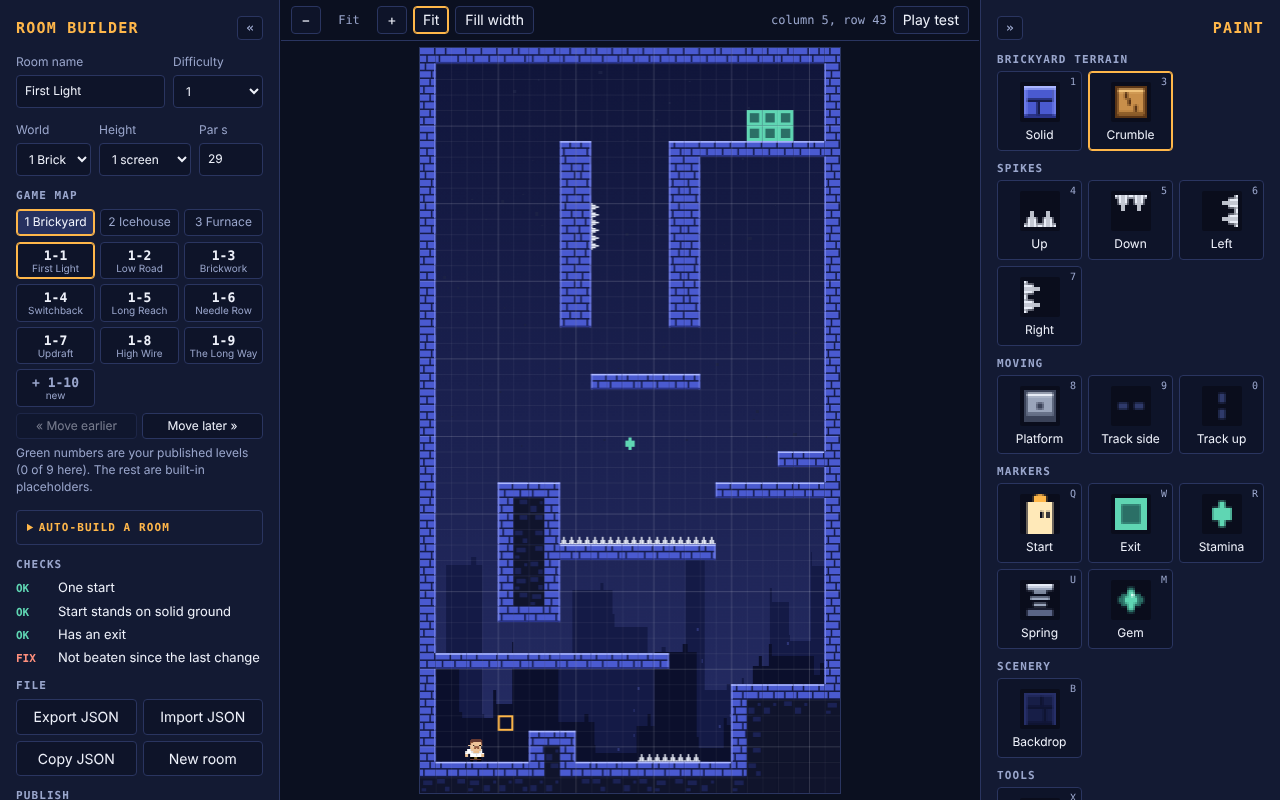
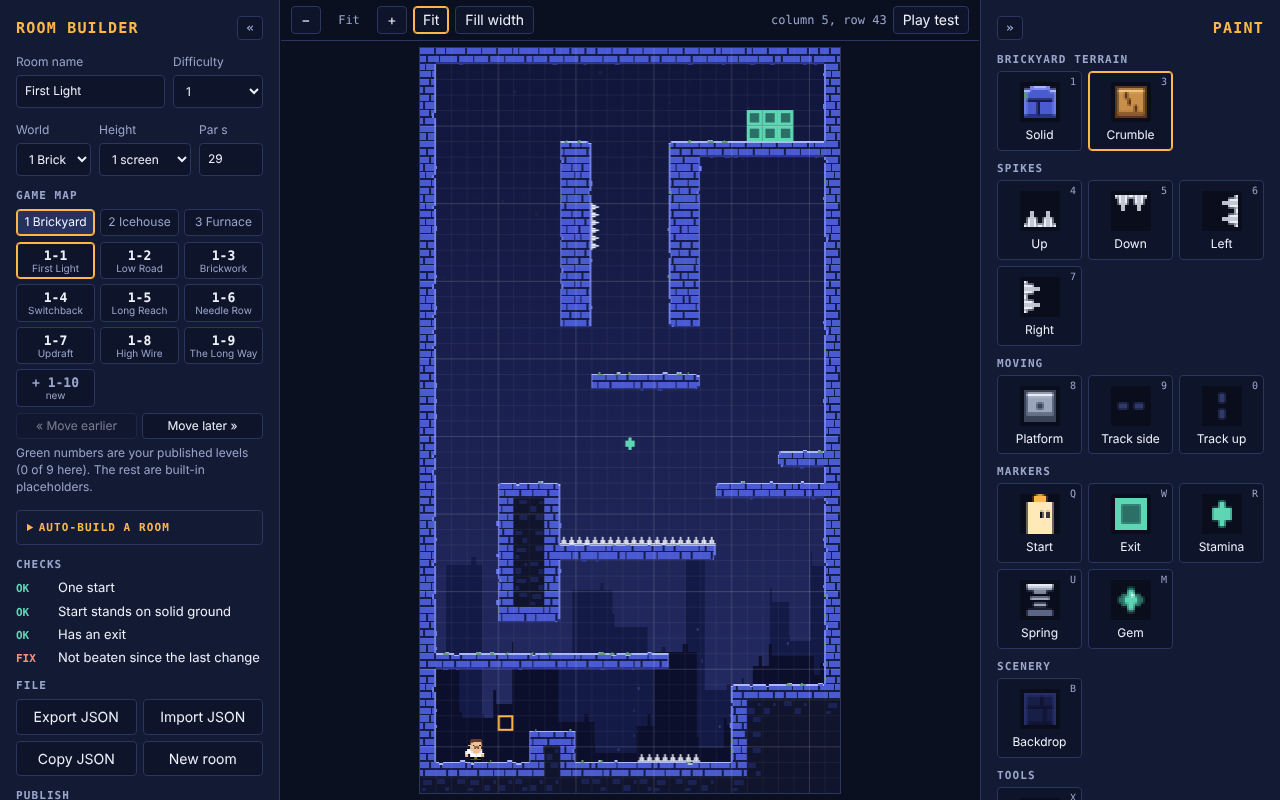
Rough terrain edges with per-world edge art
Step 2 of the aesthetic plan. Exposed wall corners get chipped, top runs
get dips and knobs, sides get nicks, all one or two pixels of art with no
change to collision. Each world adds its own trim: moss tufts in the
Brickyard, snow caps and icicles in the Icehouse, soot and glowing drips in
the Furnace. Walls now draw on a transparent layer over the sky so chips
show the sky through. Applies to every existing level, hand-made or built.

Claude-Session: https://claude.ai/code/session_01NZkKt2otoYDRNuWNpVBUzY

diff --git a/builder/index.html b/builder/index.html
@@ -246,9 +246,9 @@
   // so repeats do not show, and a ring of sparse "infill" detail just inside the edge. Each terrain type is its
   // own tileset with the same layout, so new looks can be swapped in without touching the rules.
   var TILESETS = {
-    brick: { face: '#4a5ad0', hi: '#aab6ff', side: '#6d7be6', lo: '#2a348c', line: '#161c4a', core: '#10142c', infill: '#1b2254' },
-    frost: { face: '#587a9e', hi: '#f4fcff', side: '#86a9c9', lo: '#2a4361', line: '#172a41', core: '#0b1826', infill: '#14283c' },
-    ember: { face: '#8c3b2c', hi: '#ffb48c', side: '#b9573e', lo: '#4c1c15', line: '#2b0f0c', core: '#180a09', infill: '#2c1311' },
+    brick: { face: '#4a5ad0', hi: '#aab6ff', side: '#6d7be6', lo: '#2a348c', line: '#161c4a', core: '#10142c', infill: '#1b2254', moss: '#5f9a74' },
+    frost: { face: '#587a9e', hi: '#f4fcff', side: '#86a9c9', lo: '#2a4361', line: '#172a41', core: '#0b1826', infill: '#14283c', snow: '#f4fcff', snowLo: '#b9d9ec', icicle: '#a8d6ee' },
+    ember: { face: '#8c3b2c', hi: '#ffb48c', side: '#b9573e', lo: '#4c1c15', line: '#2b0f0c', core: '#180a09', infill: '#2c1311', soot: '#2b0f0c', drip: '#d4531f', dripHi: '#ff9a3c' },
     ice:   { face: '#86cdee', hi: '#f2fdff', side: '#b9e8fa', lo: '#3f86bd', line: '#5eb0dd', core: '#102c44', infill: '#1b4866' }
   };
   var SOLID_KIND = { '#': 'brick', 'I': 'ice' };
@@ -297,6 +297,58 @@
     if (rt) { b.fillStyle = S.side; b.fillRect(x + 9, y, 1, 10); }
     if (dn) { b.fillStyle = S.lo; b.fillRect(x, y + 9, 10, 1); }
     if (up) { b.fillStyle = S.hi; b.fillRect(x, y, 10, 1); }
+    if (kind !== 'ice') roughen(b, x, y, S, up, dn, lf, rt, c, r);
+  }
+  // Roughen: the silhouette of a wall is never a straight line. Exposed corners get chipped, top edges get small
+  // dips and bumps, sides get a nick or a knob, and each world adds its own edge art: moss tufts on the Brickyard,
+  // snow caps and icicles in the Icehouse, soot and glowing drips in the Furnace. Chips are cleared to transparent,
+  // so walls must be drawn on their own transparent layer over the sky. None of this changes collision: the edge
+  // moves by one or two pixels of art, the same way Celeste's tiles do.
+  function roughen(b, x, y, S, up, dn, lf, rt, c, r) {
+    var a = tileHash(c * 7 + 3, r * 11 + 5), d = tileHash(c * 13 + 9, r * 3 + 1), e = tileHash(c + 101, r + 203);
+    function chip(cx, cy, w, h, dir) {                       // clear a corner, then relight the two new faces
+      b.clearRect(cx, cy, w, h);
+      if (dir === 'tl') { b.fillStyle = S.hi; b.fillRect(cx, cy + h, w, 1); b.fillStyle = S.side; b.fillRect(cx + w, cy, 1, h); }
+      if (dir === 'tr') { b.fillStyle = S.hi; b.fillRect(cx, cy + h, w, 1); b.fillStyle = S.side; b.fillRect(cx - 1, cy, 1, h); }
+      if (dir === 'bl') { b.fillStyle = S.lo; b.fillRect(cx, cy - 1, w, 1); b.fillStyle = S.side; b.fillRect(cx + w, cy, 1, h); }
+      if (dir === 'br') { b.fillStyle = S.lo; b.fillRect(cx, cy - 1, w, 1); b.fillStyle = S.side; b.fillRect(cx - 1, cy, 1, h); }
+    }
+    if (up && lf && a < 0.6) chip(x, y, a < 0.2 ? 2 : 1, a < 0.4 ? 1 : 2, 'tl');
+    if (up && rt && d < 0.6) chip(x + (d < 0.2 ? 8 : 9), y, d < 0.2 ? 2 : 1, d < 0.4 ? 1 : 2, 'tr');
+    if (dn && lf && e < 0.5) chip(x, y + (e < 0.25 ? 9 : 8), e < 0.25 ? 2 : 1, e < 0.25 ? 1 : 2, 'bl');
+    if (dn && rt && a > 0.5) chip(x + (a > 0.75 ? 8 : 9), y + (a > 0.75 ? 9 : 8), a > 0.75 ? 2 : 1, a > 0.75 ? 1 : 2, 'br');
+    if (up && !lf && !rt) {                                  // along a top run: a dip, or a knob standing one pixel proud
+      var dx = 2 + Math.floor(d * 5), dw = 2 + Math.floor(e * 2);
+      if (d < 0.22) { b.clearRect(x + dx, y, dw, 1); b.fillStyle = S.hi; b.fillRect(x + dx, y + 1, dw, 1); }
+      else if (d > 0.7) { b.fillStyle = S.hi; b.fillRect(x + dx, y - 1, dw, 1); b.fillStyle = S.face; b.fillRect(x + dx, y, dw, 1); }
+    }
+    if (dn && !lf && !rt && e > 0.72) { var bx = 2 + Math.floor(a * 5); b.fillStyle = S.lo; b.fillRect(x + bx, y + 10, 2 + Math.floor(d * 2), 1); }
+    if (lf && !up && !dn) {                                  // along a side: a nick in, or a knob out
+      var sy = 2 + Math.floor(a * 5), sh = 2 + Math.floor(d * 2);
+      if (a < 0.2) { b.clearRect(x, y + sy, 1, sh); b.fillStyle = S.side; b.fillRect(x + 1, y + sy, 1, sh); }
+      else if (a > 0.78) { b.fillStyle = S.side; b.fillRect(x - 1, y + sy, 1, sh); }
+    }
+    if (rt && !up && !dn) {
+      var ty = 2 + Math.floor(e * 5), th = 2 + Math.floor(a * 2);
+      if (e < 0.2) { b.clearRect(x + 9, y + ty, 1, th); b.fillStyle = S.side; b.fillRect(x + 8, y + ty, 1, th); }
+      else if (e > 0.78) { b.fillStyle = S.side; b.fillRect(x + 10, y + ty, 1, th); }
+    }
+    // world edge art
+    if (S.snow) {
+      if (up) {                                              // a snow cap: two pixels deep, mounded, with a little overhang
+        var sx = lf ? 1 : 0, sw = 10 - sx - (rt ? 1 : 0);
+        b.fillStyle = S.snow; b.fillRect(x + sx, y, sw, 2);
+        b.fillStyle = S.snowLo; b.fillRect(x + sx, y + 2, sw, 1);
+        if (e > 0.5) { b.fillStyle = S.snow; b.fillRect(x + 2 + Math.floor(a * 5), y - 1, 2 + Math.floor(d * 2), 1); }
+      }
+      if (dn && d > 0.55) { var ix = 1 + Math.floor(a * 8), ih = 2 + Math.floor(e * 3); b.fillStyle = S.icicle; b.fillRect(x + ix, y + 10, 1, ih); b.fillStyle = S.snow; b.fillRect(x + ix, y + 10, 1, 1); }
+    } else if (S.moss) {
+      if (up && a > 0.62) { var mx = 1 + Math.floor(d * 6); b.fillStyle = S.moss; b.fillRect(x + mx, y, 2 + Math.floor(e * 3), 1); b.fillRect(x + mx + 1, y - 1, 1, 1); }
+      if (lf && e > 0.8) { b.fillStyle = S.moss; b.fillRect(x, y + 2 + Math.floor(a * 6), 1, 2); }
+    } else if (S.soot) {
+      if (up && d > 0.5) { var ox = Math.floor(a * 7); b.fillStyle = S.soot; b.fillRect(x + ox, y, 2 + Math.floor(e * 3), 1); }
+      if (dn && a > 0.68) { var px = 1 + Math.floor(e * 8), ph = 2 + Math.floor(d * 3); b.fillStyle = S.drip; b.fillRect(x + px, y + 10, 1, ph); b.fillStyle = S.dripHi; b.fillRect(x + px, y + 10, 1, 1); }
+    }
   }
   // Crumbling block: every tile has its own outline and cracks so it reads as loose.
   function drawCrumble(b, x, y, c, r) {
@@ -823,9 +875,14 @@
     ctx.setTransform(k, 0, 0, k, 0, 0);
     ctx.imageSmoothingEnabled = false;
     ctx.drawImage(skyLayer(), 0, 0);
+    var wl = document.createElement('canvas'), wb;                       // walls on a transparent layer (roughen clears chips), same as the game
+    wl.width = COLS * T; wl.height = ROWS * T; wb = wl.getContext('2d');
+    for (r = 0; r < ROWS; r++) for (c = 0; c < COLS; c++) if (tiles[r][c] === 'b') drawTile(ctx, 'b', c * T, r * T, c, r, false);
+    for (r = 0; r < ROWS; r++) for (c = 0; c < COLS; c++) if (tiles[r][c] === '#' || tiles[r][c] === 'I') drawTile(wb, tiles[r][c], c * T, r * T, c, r, false);
+    ctx.drawImage(wl, 0, 0);
     for (r = 0; r < ROWS; r++) for (c = 0; c < COLS; c++) {
       var ch = tiles[r][c];
-      if (ch !== '.') drawTile(ctx, ch, c * T, r * T, c, r, false);
+      if (ch !== '.' && ch !== 'b' && ch !== '#' && ch !== 'I') drawTile(ctx, ch, c * T, r * T, c, r, false);
     }
     for (c = 1; c < COLS; c++) { ctx.fillStyle = c % 5 === 0 ? 'rgba(255,255,255,0.16)' : 'rgba(255,255,255,0.06)'; ctx.fillRect(c * T, 0, px, ROWS * T); }
     for (r = 1; r < ROWS; r++) { ctx.fillStyle = r % 5 === 0 ? 'rgba(255,255,255,0.16)' : 'rgba(255,255,255,0.06)'; ctx.fillRect(0, r * T, COLS * T, px); }

diff --git a/index.html b/index.html
@@ -56,9 +56,9 @@
   // so repeats do not show, and a ring of sparse "infill" detail just inside the edge. Each terrain type is its
   // own tileset with the same layout, so new looks can be swapped in without touching the rules.
   var TILESETS = {
-    brick: { face: '#4a5ad0', hi: '#aab6ff', side: '#6d7be6', lo: '#2a348c', line: '#161c4a', core: '#10142c', infill: '#1b2254' },
-    frost: { face: '#587a9e', hi: '#f4fcff', side: '#86a9c9', lo: '#2a4361', line: '#172a41', core: '#0b1826', infill: '#14283c' },
-    ember: { face: '#8c3b2c', hi: '#ffb48c', side: '#b9573e', lo: '#4c1c15', line: '#2b0f0c', core: '#180a09', infill: '#2c1311' },
+    brick: { face: '#4a5ad0', hi: '#aab6ff', side: '#6d7be6', lo: '#2a348c', line: '#161c4a', core: '#10142c', infill: '#1b2254', moss: '#5f9a74' },
+    frost: { face: '#587a9e', hi: '#f4fcff', side: '#86a9c9', lo: '#2a4361', line: '#172a41', core: '#0b1826', infill: '#14283c', snow: '#f4fcff', snowLo: '#b9d9ec', icicle: '#a8d6ee' },
+    ember: { face: '#8c3b2c', hi: '#ffb48c', side: '#b9573e', lo: '#4c1c15', line: '#2b0f0c', core: '#180a09', infill: '#2c1311', soot: '#2b0f0c', drip: '#d4531f', dripHi: '#ff9a3c' },
     ice:   { face: '#86cdee', hi: '#f2fdff', side: '#b9e8fa', lo: '#3f86bd', line: '#5eb0dd', core: '#102c44', infill: '#1b4866' }
   };
   var SOLID_KIND = { '#': 'brick', 'I': 'ice' };
@@ -107,6 +107,58 @@
     if (rt) { b.fillStyle = S.side; b.fillRect(x + 9, y, 1, 10); }
     if (dn) { b.fillStyle = S.lo; b.fillRect(x, y + 9, 10, 1); }
     if (up) { b.fillStyle = S.hi; b.fillRect(x, y, 10, 1); }
+    if (kind !== 'ice') roughen(b, x, y, S, up, dn, lf, rt, c, r);
+  }
+  // Roughen: the silhouette of a wall is never a straight line. Exposed corners get chipped, top edges get small
+  // dips and bumps, sides get a nick or a knob, and each world adds its own edge art: moss tufts on the Brickyard,
+  // snow caps and icicles in the Icehouse, soot and glowing drips in the Furnace. Chips are cleared to transparent,
+  // so walls must be drawn on their own transparent layer over the sky. None of this changes collision: the edge
+  // moves by one or two pixels of art, the same way Celeste's tiles do.
+  function roughen(b, x, y, S, up, dn, lf, rt, c, r) {
+    var a = tileHash(c * 7 + 3, r * 11 + 5), d = tileHash(c * 13 + 9, r * 3 + 1), e = tileHash(c + 101, r + 203);
+    function chip(cx, cy, w, h, dir) {                       // clear a corner, then relight the two new faces
+      b.clearRect(cx, cy, w, h);
+      if (dir === 'tl') { b.fillStyle = S.hi; b.fillRect(cx, cy + h, w, 1); b.fillStyle = S.side; b.fillRect(cx + w, cy, 1, h); }
+      if (dir === 'tr') { b.fillStyle = S.hi; b.fillRect(cx, cy + h, w, 1); b.fillStyle = S.side; b.fillRect(cx - 1, cy, 1, h); }
+      if (dir === 'bl') { b.fillStyle = S.lo; b.fillRect(cx, cy - 1, w, 1); b.fillStyle = S.side; b.fillRect(cx + w, cy, 1, h); }
+      if (dir === 'br') { b.fillStyle = S.lo; b.fillRect(cx, cy - 1, w, 1); b.fillStyle = S.side; b.fillRect(cx - 1, cy, 1, h); }
+    }
+    if (up && lf && a < 0.6) chip(x, y, a < 0.2 ? 2 : 1, a < 0.4 ? 1 : 2, 'tl');
+    if (up && rt && d < 0.6) chip(x + (d < 0.2 ? 8 : 9), y, d < 0.2 ? 2 : 1, d < 0.4 ? 1 : 2, 'tr');
+    if (dn && lf && e < 0.5) chip(x, y + (e < 0.25 ? 9 : 8), e < 0.25 ? 2 : 1, e < 0.25 ? 1 : 2, 'bl');
+    if (dn && rt && a > 0.5) chip(x + (a > 0.75 ? 8 : 9), y + (a > 0.75 ? 9 : 8), a > 0.75 ? 2 : 1, a > 0.75 ? 1 : 2, 'br');
+    if (up && !lf && !rt) {                                  // along a top run: a dip, or a knob standing one pixel proud
+      var dx = 2 + Math.floor(d * 5), dw = 2 + Math.floor(e * 2);
+      if (d < 0.22) { b.clearRect(x + dx, y, dw, 1); b.fillStyle = S.hi; b.fillRect(x + dx, y + 1, dw, 1); }
+      else if (d > 0.7) { b.fillStyle = S.hi; b.fillRect(x + dx, y - 1, dw, 1); b.fillStyle = S.face; b.fillRect(x + dx, y, dw, 1); }
+    }
+    if (dn && !lf && !rt && e > 0.72) { var bx = 2 + Math.floor(a * 5); b.fillStyle = S.lo; b.fillRect(x + bx, y + 10, 2 + Math.floor(d * 2), 1); }
+    if (lf && !up && !dn) {                                  // along a side: a nick in, or a knob out
+      var sy = 2 + Math.floor(a * 5), sh = 2 + Math.floor(d * 2);
+      if (a < 0.2) { b.clearRect(x, y + sy, 1, sh); b.fillStyle = S.side; b.fillRect(x + 1, y + sy, 1, sh); }
+      else if (a > 0.78) { b.fillStyle = S.side; b.fillRect(x - 1, y + sy, 1, sh); }
+    }
+    if (rt && !up && !dn) {
+      var ty = 2 + Math.floor(e * 5), th = 2 + Math.floor(a * 2);
+      if (e < 0.2) { b.clearRect(x + 9, y + ty, 1, th); b.fillStyle = S.side; b.fillRect(x + 8, y + ty, 1, th); }
+      else if (e > 0.78) { b.fillStyle = S.side; b.fillRect(x + 10, y + ty, 1, th); }
+    }
+    // world edge art
+    if (S.snow) {
+      if (up) {                                              // a snow cap: two pixels deep, mounded, with a little overhang
+        var sx = lf ? 1 : 0, sw = 10 - sx - (rt ? 1 : 0);
+        b.fillStyle = S.snow; b.fillRect(x + sx, y, sw, 2);
+        b.fillStyle = S.snowLo; b.fillRect(x + sx, y + 2, sw, 1);
+        if (e > 0.5) { b.fillStyle = S.snow; b.fillRect(x + 2 + Math.floor(a * 5), y - 1, 2 + Math.floor(d * 2), 1); }
+      }
+      if (dn && d > 0.55) { var ix = 1 + Math.floor(a * 8), ih = 2 + Math.floor(e * 3); b.fillStyle = S.icicle; b.fillRect(x + ix, y + 10, 1, ih); b.fillStyle = S.snow; b.fillRect(x + ix, y + 10, 1, 1); }
+    } else if (S.moss) {
+      if (up && a > 0.62) { var mx = 1 + Math.floor(d * 6); b.fillStyle = S.moss; b.fillRect(x + mx, y, 2 + Math.floor(e * 3), 1); b.fillRect(x + mx + 1, y - 1, 1, 1); }
+      if (lf && e > 0.8) { b.fillStyle = S.moss; b.fillRect(x, y + 2 + Math.floor(a * 6), 1, 2); }
+    } else if (S.soot) {
+      if (up && d > 0.5) { var ox = Math.floor(a * 7); b.fillStyle = S.soot; b.fillRect(x + ox, y, 2 + Math.floor(e * 3), 1); }
+      if (dn && a > 0.68) { var px = 1 + Math.floor(e * 8), ph = 2 + Math.floor(d * 3); b.fillStyle = S.drip; b.fillRect(x + px, y + 10, 1, ph); b.fillStyle = S.dripHi; b.fillRect(x + px, y + 10, 1, 1); }
+    }
   }
   // Crumbling block: every tile has its own outline and cracks so it reads as loose.
   function drawCrumble(b, x, y, c, r) {
@@ -1185,9 +1237,12 @@
     var wallAt = function (cc, rr) { return rr < 0 || rr >= rows || cc < 0 || cc >= cols || grid[rr][cc] === 1 || grid[rr][cc] === 2; };
     var backAt = function (cc, rr) { return wallAt(cc, rr) || !!backs[rr * cols + cc]; };
     for (r = 0; r < rows; r++) for (c = 0; c < cols; c++) if (backs[r * cols + c]) drawBack(b, c * T, r * T, backAt, c, r);
+    var wl = document.createElement('canvas'), wb;                        // walls on their own layer: roughen() clears chips to transparent
+    wl.width = LW; wl.height = RH; wb = wl.getContext('2d');
     for (r = 0; r < rows; r++) for (c = 0; c < cols; c++) {
-      if (grid[r][c] === 1 || grid[r][c] === 2) drawSolid(b, c * T, r * T, grid[r][c] === 2 ? 'ice' : 'brick', wallAt, c, r);
+      if (grid[r][c] === 1 || grid[r][c] === 2) drawSolid(wb, c * T, r * T, grid[r][c] === 2 ? 'ice' : 'brick', wallAt, c, r);
     }
+    b.drawImage(wl, 0, 0);
     for (i = 0; i < tracks.length; i++) drawTrack(b, tracks[i].x, tracks[i].y, tracks[i].v);
     for (i = 0; i < hazards.length; i++) if (hazards[i].dir < 4) drawSpike(b, hazards[i].tx, hazards[i].ty, hazards[i].dir);
     if (exits.length) {

diff --git a/src/shared-tiles.js b/src/shared-tiles.js
@@ -4,9 +4,9 @@
   // so repeats do not show, and a ring of sparse "infill" detail just inside the edge. Each terrain type is its
   // own tileset with the same layout, so new looks can be swapped in without touching the rules.
   var TILESETS = {
-    brick: { face: '#4a5ad0', hi: '#aab6ff', side: '#6d7be6', lo: '#2a348c', line: '#161c4a', core: '#10142c', infill: '#1b2254' },
-    frost: { face: '#587a9e', hi: '#f4fcff', side: '#86a9c9', lo: '#2a4361', line: '#172a41', core: '#0b1826', infill: '#14283c' },
-    ember: { face: '#8c3b2c', hi: '#ffb48c', side: '#b9573e', lo: '#4c1c15', line: '#2b0f0c', core: '#180a09', infill: '#2c1311' },
+    brick: { face: '#4a5ad0', hi: '#aab6ff', side: '#6d7be6', lo: '#2a348c', line: '#161c4a', core: '#10142c', infill: '#1b2254', moss: '#5f9a74' },
+    frost: { face: '#587a9e', hi: '#f4fcff', side: '#86a9c9', lo: '#2a4361', line: '#172a41', core: '#0b1826', infill: '#14283c', snow: '#f4fcff', snowLo: '#b9d9ec', icicle: '#a8d6ee' },
+    ember: { face: '#8c3b2c', hi: '#ffb48c', side: '#b9573e', lo: '#4c1c15', line: '#2b0f0c', core: '#180a09', infill: '#2c1311', soot: '#2b0f0c', drip: '#d4531f', dripHi: '#ff9a3c' },
     ice:   { face: '#86cdee', hi: '#f2fdff', side: '#b9e8fa', lo: '#3f86bd', line: '#5eb0dd', core: '#102c44', infill: '#1b4866' }
   };
   var SOLID_KIND = { '#': 'brick', 'I': 'ice' };
@@ -55,6 +55,58 @@
     if (rt) { b.fillStyle = S.side; b.fillRect(x + 9, y, 1, 10); }
     if (dn) { b.fillStyle = S.lo; b.fillRect(x, y + 9, 10, 1); }
     if (up) { b.fillStyle = S.hi; b.fillRect(x, y, 10, 1); }
+    if (kind !== 'ice') roughen(b, x, y, S, up, dn, lf, rt, c, r);
+  }
+  // Roughen: the silhouette of a wall is never a straight line. Exposed corners get chipped, top edges get small
+  // dips and bumps, sides get a nick or a knob, and each world adds its own edge art: moss tufts on the Brickyard,
+  // snow caps and icicles in the Icehouse, soot and glowing drips in the Furnace. Chips are cleared to transparent,
+  // so walls must be drawn on their own transparent layer over the sky. None of this changes collision: the edge
+  // moves by one or two pixels of art, the same way Celeste's tiles do.
+  function roughen(b, x, y, S, up, dn, lf, rt, c, r) {
+    var a = tileHash(c * 7 + 3, r * 11 + 5), d = tileHash(c * 13 + 9, r * 3 + 1), e = tileHash(c + 101, r + 203);
+    function chip(cx, cy, w, h, dir) {                       // clear a corner, then relight the two new faces
+      b.clearRect(cx, cy, w, h);
+      if (dir === 'tl') { b.fillStyle = S.hi; b.fillRect(cx, cy + h, w, 1); b.fillStyle = S.side; b.fillRect(cx + w, cy, 1, h); }
+      if (dir === 'tr') { b.fillStyle = S.hi; b.fillRect(cx, cy + h, w, 1); b.fillStyle = S.side; b.fillRect(cx - 1, cy, 1, h); }
+      if (dir === 'bl') { b.fillStyle = S.lo; b.fillRect(cx, cy - 1, w, 1); b.fillStyle = S.side; b.fillRect(cx + w, cy, 1, h); }
+      if (dir === 'br') { b.fillStyle = S.lo; b.fillRect(cx, cy - 1, w, 1); b.fillStyle = S.side; b.fillRect(cx - 1, cy, 1, h); }
+    }
+    if (up && lf && a < 0.6) chip(x, y, a < 0.2 ? 2 : 1, a < 0.4 ? 1 : 2, 'tl');
+    if (up && rt && d < 0.6) chip(x + (d < 0.2 ? 8 : 9), y, d < 0.2 ? 2 : 1, d < 0.4 ? 1 : 2, 'tr');
+    if (dn && lf && e < 0.5) chip(x, y + (e < 0.25 ? 9 : 8), e < 0.25 ? 2 : 1, e < 0.25 ? 1 : 2, 'bl');
+    if (dn && rt && a > 0.5) chip(x + (a > 0.75 ? 8 : 9), y + (a > 0.75 ? 9 : 8), a > 0.75 ? 2 : 1, a > 0.75 ? 1 : 2, 'br');
+    if (up && !lf && !rt) {                                  // along a top run: a dip, or a knob standing one pixel proud
+      var dx = 2 + Math.floor(d * 5), dw = 2 + Math.floor(e * 2);
+      if (d < 0.22) { b.clearRect(x + dx, y, dw, 1); b.fillStyle = S.hi; b.fillRect(x + dx, y + 1, dw, 1); }
+      else if (d > 0.7) { b.fillStyle = S.hi; b.fillRect(x + dx, y - 1, dw, 1); b.fillStyle = S.face; b.fillRect(x + dx, y, dw, 1); }
+    }
+    if (dn && !lf && !rt && e > 0.72) { var bx = 2 + Math.floor(a * 5); b.fillStyle = S.lo; b.fillRect(x + bx, y + 10, 2 + Math.floor(d * 2), 1); }
+    if (lf && !up && !dn) {                                  // along a side: a nick in, or a knob out
+      var sy = 2 + Math.floor(a * 5), sh = 2 + Math.floor(d * 2);
+      if (a < 0.2) { b.clearRect(x, y + sy, 1, sh); b.fillStyle = S.side; b.fillRect(x + 1, y + sy, 1, sh); }
+      else if (a > 0.78) { b.fillStyle = S.side; b.fillRect(x - 1, y + sy, 1, sh); }
+    }
+    if (rt && !up && !dn) {
+      var ty = 2 + Math.floor(e * 5), th = 2 + Math.floor(a * 2);
+      if (e < 0.2) { b.clearRect(x + 9, y + ty, 1, th); b.fillStyle = S.side; b.fillRect(x + 8, y + ty, 1, th); }
+      else if (e > 0.78) { b.fillStyle = S.side; b.fillRect(x + 10, y + ty, 1, th); }
+    }
+    // world edge art
+    if (S.snow) {
+      if (up) {                                              // a snow cap: two pixels deep, mounded, with a little overhang
+        var sx = lf ? 1 : 0, sw = 10 - sx - (rt ? 1 : 0);
+        b.fillStyle = S.snow; b.fillRect(x + sx, y, sw, 2);
+        b.fillStyle = S.snowLo; b.fillRect(x + sx, y + 2, sw, 1);
+        if (e > 0.5) { b.fillStyle = S.snow; b.fillRect(x + 2 + Math.floor(a * 5), y - 1, 2 + Math.floor(d * 2), 1); }
+      }
+      if (dn && d > 0.55) { var ix = 1 + Math.floor(a * 8), ih = 2 + Math.floor(e * 3); b.fillStyle = S.icicle; b.fillRect(x + ix, y + 10, 1, ih); b.fillStyle = S.snow; b.fillRect(x + ix, y + 10, 1, 1); }
+    } else if (S.moss) {
+      if (up && a > 0.62) { var mx = 1 + Math.floor(d * 6); b.fillStyle = S.moss; b.fillRect(x + mx, y, 2 + Math.floor(e * 3), 1); b.fillRect(x + mx + 1, y - 1, 1, 1); }
+      if (lf && e > 0.8) { b.fillStyle = S.moss; b.fillRect(x, y + 2 + Math.floor(a * 6), 1, 2); }
+    } else if (S.soot) {
+      if (up && d > 0.5) { var ox = Math.floor(a * 7); b.fillStyle = S.soot; b.fillRect(x + ox, y, 2 + Math.floor(e * 3), 1); }
+      if (dn && a > 0.68) { var px = 1 + Math.floor(e * 8), ph = 2 + Math.floor(d * 3); b.fillStyle = S.drip; b.fillRect(x + px, y + 10, 1, ph); b.fillStyle = S.dripHi; b.fillRect(x + px, y + 10, 1, 1); }
+    }
   }
   // Crumbling block: every tile has its own outline and cracks so it reads as loose.
   function drawCrumble(b, x, y, c, r) {

diff --git a/src/builder-template.html b/src/builder-template.html
@@ -373,9 +373,14 @@
     ctx.setTransform(k, 0, 0, k, 0, 0);
     ctx.imageSmoothingEnabled = false;
     ctx.drawImage(skyLayer(), 0, 0);
+    var wl = document.createElement('canvas'), wb;                       // walls on a transparent layer (roughen clears chips), same as the game
+    wl.width = COLS * T; wl.height = ROWS * T; wb = wl.getContext('2d');
+    for (r = 0; r < ROWS; r++) for (c = 0; c < COLS; c++) if (tiles[r][c] === 'b') drawTile(ctx, 'b', c * T, r * T, c, r, false);
+    for (r = 0; r < ROWS; r++) for (c = 0; c < COLS; c++) if (tiles[r][c] === '#' || tiles[r][c] === 'I') drawTile(wb, tiles[r][c], c * T, r * T, c, r, false);
+    ctx.drawImage(wl, 0, 0);
     for (r = 0; r < ROWS; r++) for (c = 0; c < COLS; c++) {
       var ch = tiles[r][c];
-      if (ch !== '.') drawTile(ctx, ch, c * T, r * T, c, r, false);
+      if (ch !== '.' && ch !== 'b' && ch !== '#' && ch !== 'I') drawTile(ctx, ch, c * T, r * T, c, r, false);
     }
     for (c = 1; c < COLS; c++) { ctx.fillStyle = c % 5 === 0 ? 'rgba(255,255,255,0.16)' : 'rgba(255,255,255,0.06)'; ctx.fillRect(c * T, 0, px, ROWS * T); }
     for (r = 1; r < ROWS; r++) { ctx.fillStyle = r % 5 === 0 ? 'rgba(255,255,255,0.16)' : 'rgba(255,255,255,0.06)'; ctx.fillRect(0, r * T, COLS * T, px); }

diff --git a/src/template.html b/src/template.html
@@ -981,9 +981,12 @@
     var wallAt = function (cc, rr) { return rr < 0 || rr >= rows || cc < 0 || cc >= cols || grid[rr][cc] === 1 || grid[rr][cc] === 2; };
     var backAt = function (cc, rr) { return wallAt(cc, rr) || !!backs[rr * cols + cc]; };
     for (r = 0; r < rows; r++) for (c = 0; c < cols; c++) if (backs[r * cols + c]) drawBack(b, c * T, r * T, backAt, c, r);
+    var wl = document.createElement('canvas'), wb;                        // walls on their own layer: roughen() clears chips to transparent
+    wl.width = LW; wl.height = RH; wb = wl.getContext('2d');
     for (r = 0; r < rows; r++) for (c = 0; c < cols; c++) {
-      if (grid[r][c] === 1 || grid[r][c] === 2) drawSolid(b, c * T, r * T, grid[r][c] === 2 ? 'ice' : 'brick', wallAt, c, r);
+      if (grid[r][c] === 1 || grid[r][c] === 2) drawSolid(wb, c * T, r * T, grid[r][c] === 2 ? 'ice' : 'brick', wallAt, c, r);
     }
+    b.drawImage(wl, 0, 0);
     for (i = 0; i < tracks.length; i++) drawTrack(b, tracks[i].x, tracks[i].y, tracks[i].v);
     for (i = 0; i < hazards.length; i++) if (hazards[i].dir < 4) drawSpike(b, hazards[i].tx, hazards[i].ty, hazards[i].dir);
     if (exits.length) {
